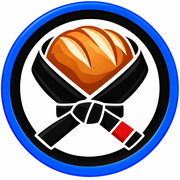
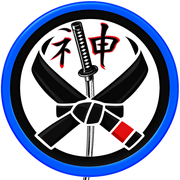
BJJ APP: novo icone e nome

Changed region(s): [[0.25, 0.1111, 0.75, 0.5556], [0.4722, 0.6944, 0.5278, 0.8889], [0.4444, 0.9722, 0.5, 1.0]]

diff --git a/padeiro-app/index.html b/padeiro-app/index.html
@@ -3,7 +3,7 @@
 <head>
 <meta charset="utf-8">
 <meta name="viewport" content="width=device-width, initial-scale=1, viewport-fit=cover">
-<title>Padeiro App</title>
+<title>BJJ APP</title>
 
 <!-- ▼▼▼ COLE AQUI O LINK /exec DO SEU PORTAL ▼▼▼ -->
 <script>
@@ -16,7 +16,7 @@
 <link rel="apple-touch-icon" href="apple-touch-icon.png">
 <meta name="apple-mobile-web-app-capable" content="yes">
 <meta name="apple-mobile-web-app-status-bar-style" content="black-translucent">
-<meta name="apple-mobile-web-app-title" content="Padeiro App">
+<meta name="apple-mobile-web-app-title" content="BJJ APP">
 <style>
   :root{ --azul:#2b5bd7; }
   *{box-sizing:border-box}
@@ -40,9 +40,9 @@
 </style>
 </head>
 <body>
-  <img class="logo" src="icon-512.png" alt="Padeiro App">
+  <img class="logo" src="icon-512.png" alt="BJJ APP">
   <div class="spin"></div>
-  <h1>Padeiro App</h1>
+  <h1>BJJ APP</h1>
   <p>Portal do Aluno — Equipe Tetris.</p>
   <a class="btn" id="abrir" href="#">Abrir o Portal</a>
   <div class="dica">Dica: no menu do navegador, toque em <b>“Adicionar à tela inicial”</b> para virar um app com este ícone. 🥋</div>
